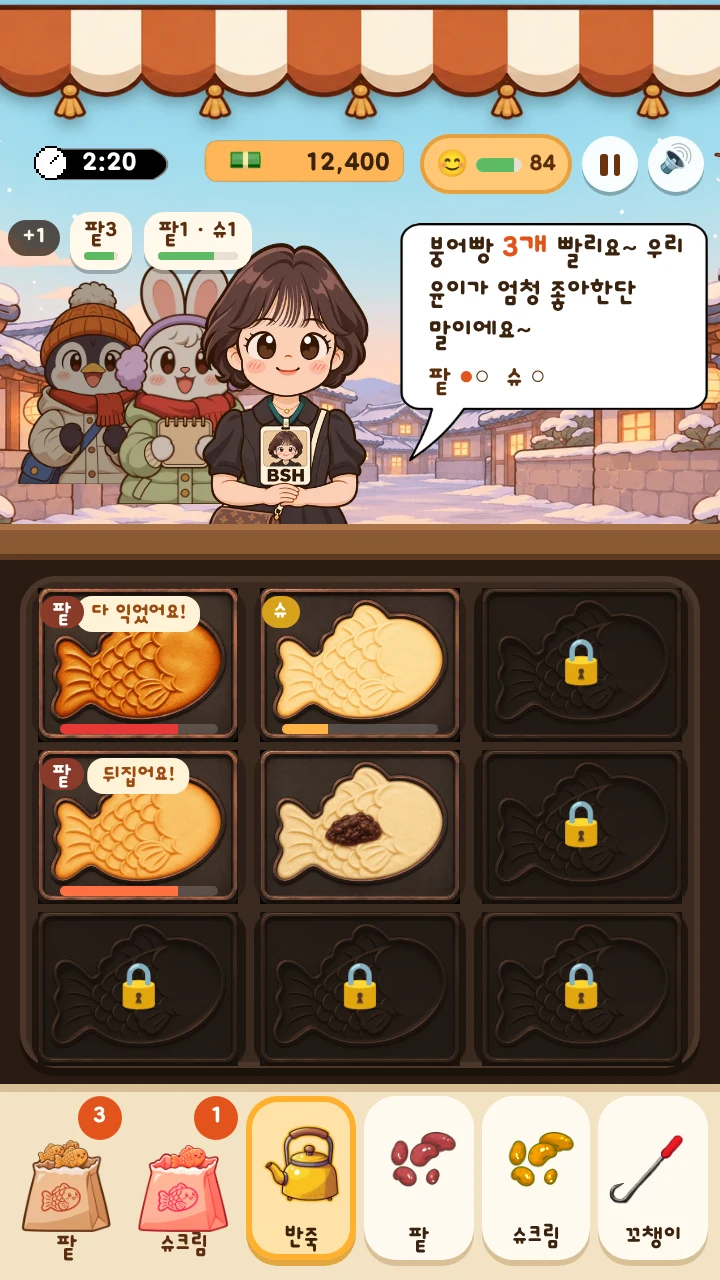
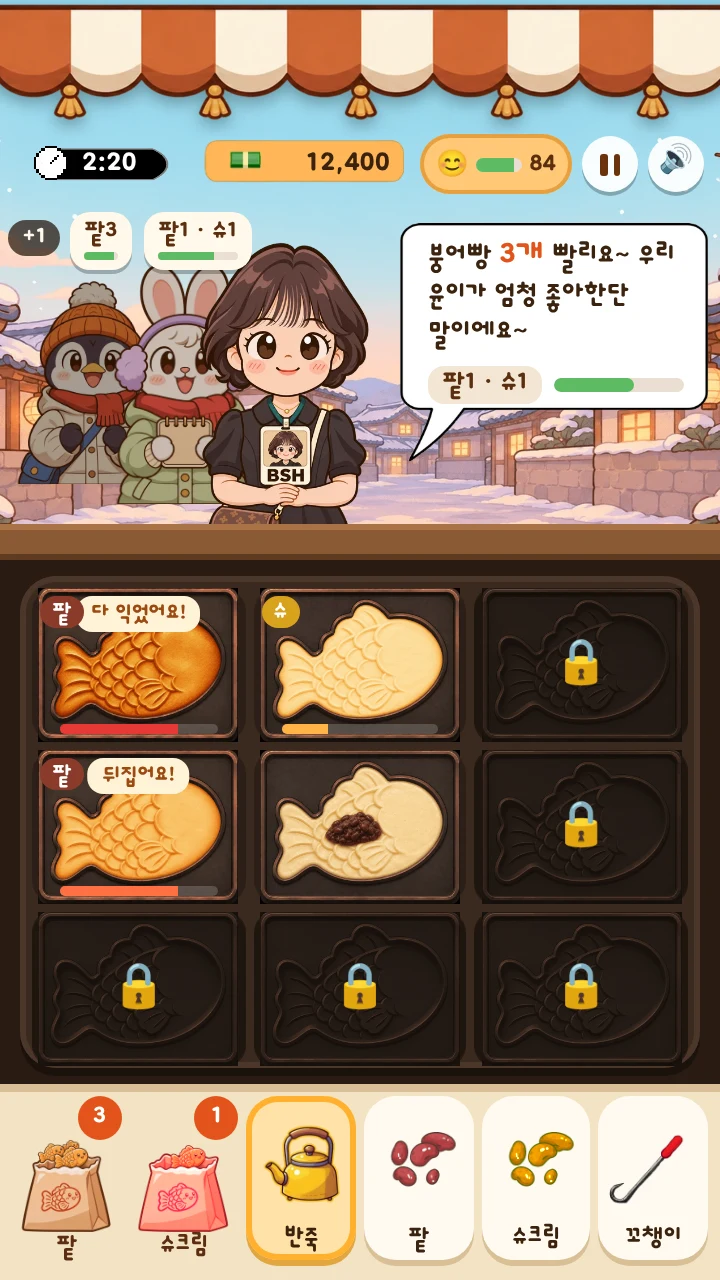
Story plan: front customer shows remaining counts beside the bar
Like the waiting customers' tags, the front bubble shows what is still
owed (팥2 · 슈1 -> 팥1 · 슈1 -> 팥✓ · 슈1) on the same row as the
patience bar, so the line text keeps its size. Updated final mockup.

Claude-Session: https://claude.ai/code/session_01Gn8peNg5xBmfX1etUcNoAD

Changed region(s): [[0.5806, 0.1875, 0.9472, 0.3125]]

diff --git a/docs/story-mode-plan.md b/docs/story-mode-plan.md
@@ -135,7 +135,7 @@
 손님은 **한 줄로 서고, 항상 맨 앞 손님에게** 건넵니다(6장).
 
 - 손님이 "팥 2개, 슈크림 1개"를 시키면 **팥 봉투 2번, 슈크림 봉투 1번** 터치합니다. 터치 한 번에 한 개씩 건네집니다.
-- 말풍선에 받은 개수가 하나씩 채워집니다. 예: 팥 ●○ · 슈크림 ○
+- 말풍선 아래쪽 줄에 **남은 개수**를 뒤 손님 주문표와 같은 모양으로 보여 주고, 같은 줄 오른쪽에 인내심 바를 둡니다. 예: 처음 **팥2 · 슈1** → 팥 하나를 받으면 **팥1 · 슈1** → 팥을 다 받으면 **팥✓ · 슈1**
 - **덜 주면:** 손님은 나머지를 받을 때까지 계속 기다립니다(인내심은 계속 줄어듦).
 - **다 주면:** 손님이 "고마워요!" 인사를 하고 **0.6초 뒤에** 떠납니다.
 - **더 주면(덤):** 인사 후 떠나기 전 0.6초 안에 더 누르면 그 붕어빵은 **덤**으로 나갑니다. 붕어빵만 나가고 **돈은 받지 않습니다.** 실수를 알아챌 수 있게, 떠날 때 대사 앞에 덤 내용을 붙입니다.
@@ -157,7 +157,7 @@
 ### 줄 규칙
 | 순서 | 보이는 모습 | 인내심이 줄어드는 속도 |
 |---|---|---|
-| 1번째 (맨 앞) | 크게(지금보다 조금 작게), 말풍선에 **전체 대사**와 받은 개수 | 원래 속도 |
+| 1번째 (맨 앞) | 크게(지금보다 조금 작게), 말풍선에 **전체 대사**, 그 아래 줄에 남은 개수 + 인내심 바 | 원래 속도 |
 | 2번째 | 맨 앞 손님 뒤에 겹쳐서, 조금 작고 어둡게. 머리 위 작은 주문표 | **1/2** |
 | 3번째 | 2번째 뒤에 더 겹쳐서 | **1/3** |
 | 4번째 | 화면에 그림은 안 보이고 주문표 옆 "+1"로 표시 | **1/4** |
@@ -176,12 +176,13 @@
 | 첫 손님 | 왼쪽 72px, 아래 끝이 카운터(위에서 262px)에 닿음, 크기 100% | 원래 밝기 |
 | 2번째 손님 | 왼쪽 20px, 10px 위로, 크기 84% | 밝기 80% |
 | 3번째 손님 | 왼쪽 −26px(조금 화면 밖), 20px 위로, 크기 70% | 밝기 66% |
-| 말풍선 | 왼쪽 190px, 폭 186px (오른쪽 투명 여백이 화면 밖으로 나가서, 흰 풍선이 화면 끝 약 8px 안쪽까지 옴). 글자 크기·말풍선 크기는 지금 그대로 | 대사 + 받은 개수(팥 ●○ · 슈 ○) + 인내심 바 |
+| 말풍선 | 왼쪽 190px, 폭 186px (오른쪽 투명 여백이 화면 밖으로 나가서, 흰 풍선이 화면 끝 약 8px 안쪽까지 옴). 글자 크기·말풍선 크기는 지금 그대로 | 대사, 그 아래 한 줄에 **남은 개수(팥1 · 슈1) + 인내심 바** |
 | 뒤 손님 주문표 | HUD 바로 아래(위에서 106px) 한 줄. 손님 머리 가운데 위쪽, 서로 겹치지 않게 | 종류·개수 + 얇은 인내심 바 |
 | "+1" | 줄의 맨 끝(주문표 줄의 가장 왼쪽) | 화면에 그리지 않은 4번째 손님 |
 
 - 뒤로 설수록 작고 어둡고 조금 위에 있어서(계단식), 멀리 줄 서 있는 느낌을 줍니다.
 - 주문표는 실제로 만들 때 손님 쪽으로 작은 꼬리를 달아, 누구의 주문인지 분명하게 합니다.
+- 남은 개수를 대사 아래 따로 한 줄로 두면 대사 글자가 작아지므로, **인내심 바와 같은 줄**에 둡니다. 말풍선 크기 맞추기(`setBubble`)는 이 줄의 높이까지 포함해서 계산합니다.
 
 - **3분 챌린지**는 지금 화면과 규칙 그대로 둡니다(슈크림·만족도·상점·줄 서기 없음). 스토리 모드와 확실히 다른 재미를 주기 위해서입니다.
 - **잠긴 틀:** 2×2만 쓰는 초반에도 3×3 칸을 다 보여 주고, 안 산 칸에 자물쇠를 표시합니다.
